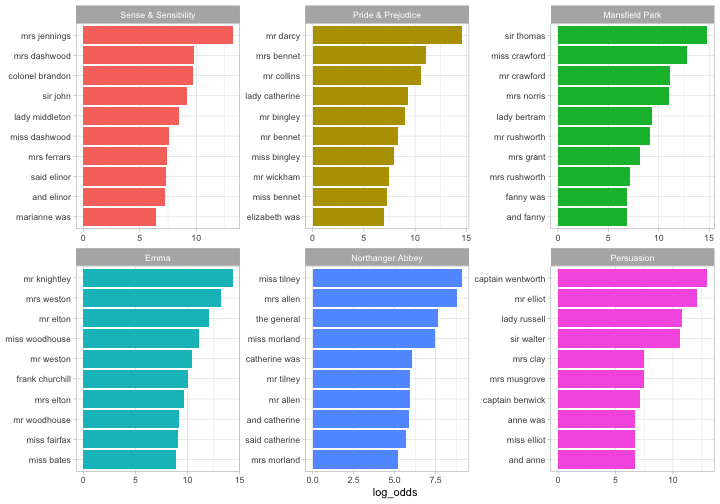
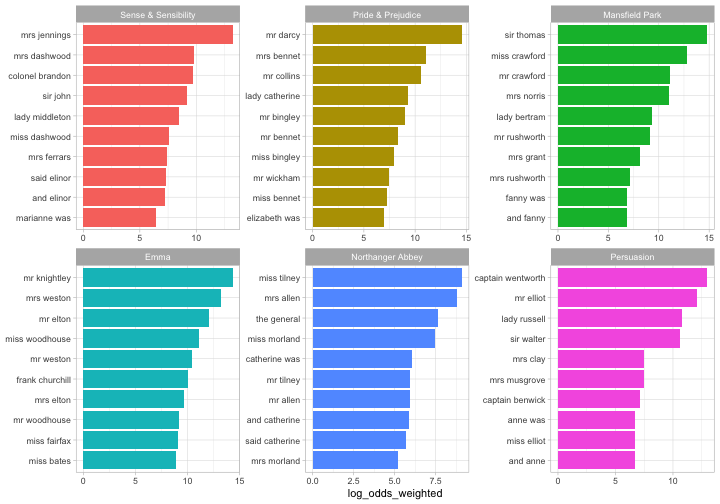
Reknit README

diff --git a/README.md b/README.md
@@ -3,7 +3,7 @@
 
 
 
-# tidylo: Tidy Log Odds Ratio Weighted by Uninformative Prior
+# tidylo: Weighted Tidy Log Odds Ratio
 
 **Authors:** [Julia Silge](https://juliasilge.com/), [Tyler Schnoebelen](https://www.letslanguage.org/)<br/>
 **License:** [MIT](https://opensource.org/licenses/MIT)
@@ -13,11 +13,12 @@
 [![Travis build status](https://travis-ci.org/juliasilge/tidylo.svg?branch=master)](https://travis-ci.org/juliasilge/tidylo)
 [![AppVeyor build status](https://ci.appveyor.com/api/projects/status/github/juliasilge/tidylo?branch=master&svg=true)](https://ci.appveyor.com/project/juliasilge/tidylo)
 [![Codecov test coverage](https://codecov.io/gh/juliasilge/tidylo/branch/master/graph/badge.svg)](https://codecov.io/gh/juliasilge/tidylo?branch=master)
+[![Lifecycle: experimental](https://img.shields.io/badge/lifecycle-experimental-orange.svg)](https://www.tidyverse.org/lifecycle/#experimental)
 <!-- badges: end -->
 
 How can we measure how the usage or frequency of some **feature**, such as words, differs across some group or **set**, such as documents? One option is to use the log odds ratio, but the log odds ratio alone does not account for sampling variability; we haven't counted every feature the same number of times so how do we know which differences are meaningful? 
 
-Enter the **weighted log odds**, which tidylo provides an implementation for, using tidy data principles. In particular, here we use the method outlined in [Monroe, Colaresi, and Quinn (2008)](https://doi.org/10.1093/pan/mpn018) to weight the log odds ratio by an uninformative Dirichlet prior.
+Enter the **weighted log odds**, which tidylo provides an implementation for, using tidy data principles. In particular, here we use the method outlined in [Monroe, Colaresi, and Quinn (2008)](https://doi.org/10.1093/pan/mpn018) to weight the log odds ratio by a prior estimated from the data itself, an empirical Bayesian approach.
 
 ## Installation
 
@@ -44,14 +45,6 @@ Using weighted log odds is a great approach for text analysis when we want to me
 
 ```r
 library(dplyr)
-#> 
-#> Attaching package: 'dplyr'
-#> The following objects are masked from 'package:stats':
-#> 
-#>     filter, lag
-#> The following objects are masked from 'package:base':
-#> 
-#>     intersect, setdiff, setequal, union
 library(janeaustenr)
 library(tidytext)
 
@@ -78,7 +71,9 @@ bigram_counts
 #> # … with 328,485 more rows
 ```
 
-Now let's use the `bind_log_odds()` function from the tidylo package to find the weighted log odds for each bigram. What are the highest log odds bigrams for these books?
+Now let's use the `bind_log_odds()` function from the tidylo package to find the weighted log odds for each bigram. The weighted log odds computed by this function are also [z-scores](https://en.wikipedia.org/wiki/Standard_score) for the log odds; this quantity is useful for comparing frequencies across categories or sets but its relationship to an odds ratio is not straightforward after the weighting. 
+
+What are the bigrams with the highest weighted log odds for these books?
 
 
 ```r
@@ -88,24 +83,24 @@ bigram_log_odds <- bigram_counts %>%
   bind_log_odds(book, bigram, n) 
 
 bigram_log_odds %>%
-  arrange(-log_odds)
+  arrange(-log_odds_weighted)
 #> # A tibble: 328,495 x 4
-#>    book                bigram                n log_odds
-#>    <fct>               <chr>             <int>    <dbl>
-#>  1 Mansfield Park      sir thomas          287     14.8
-#>  2 Pride & Prejudice   mr darcy            243     14.5
-#>  3 Emma                mr knightley        269     14.3
-#>  4 Sense & Sensibility mrs jennings        199     13.2
-#>  5 Emma                mrs weston          229     13.2
-#>  6 Persuasion          captain wentworth   170     13.0
-#>  7 Mansfield Park      miss crawford       215     12.8
-#>  8 Persuasion          mr elliot           147     12.1
-#>  9 Emma                mr elton            190     12.0
-#> 10 Mansfield Park      mr crawford         162     11.1
+#>    book                bigram                n log_odds_weighted
+#>    <fct>               <chr>             <int>             <dbl>
+#>  1 Mansfield Park      sir thomas          287              14.8
+#>  2 Pride & Prejudice   mr darcy            243              14.5
+#>  3 Emma                mr knightley        269              14.3
+#>  4 Sense & Sensibility mrs jennings        199              13.2
+#>  5 Emma                mrs weston          229              13.2
+#>  6 Persuasion          captain wentworth   170              13.0
+#>  7 Mansfield Park      miss crawford       215              12.8
+#>  8 Persuasion          mr elliot           147              12.1
+#>  9 Emma                mr elton            190              12.0
+#> 10 Mansfield Park      mr crawford         162              11.1
 #> # … with 328,485 more rows
 ```
 
-The highest log odds bigrams (bigrams more likely to come from each book, compared to the others) involve proper nouns. We can make a visualization as well.
+The bigrams more likely to come from each book, compared to the others, involve proper nouns. We can make a visualization as well.
 
 
 ```r
@@ -115,13 +110,12 @@ bigram_log_odds %>%
   group_by(book) %>%
   top_n(10) %>%
   ungroup %>%
-  mutate(bigram = reorder(bigram, log_odds)) %>%
-  ggplot(aes(bigram, log_odds, fill = book)) +
+  mutate(bigram = reorder(bigram, log_odds_weighted)) %>%
+  ggplot(aes(bigram, log_odds_weighted, fill = book)) +
   geom_col(show.legend = FALSE) +
   facet_wrap(~book, scales = "free") +
   coord_flip() +
   labs(x = NULL)
-#> Selecting by log_odds
 ```
 
 <img src="man/figures/README-bigram_plot-1.png" title="plot of chunk bigram_plot" alt="plot of chunk bigram_plot" width="100%" />
